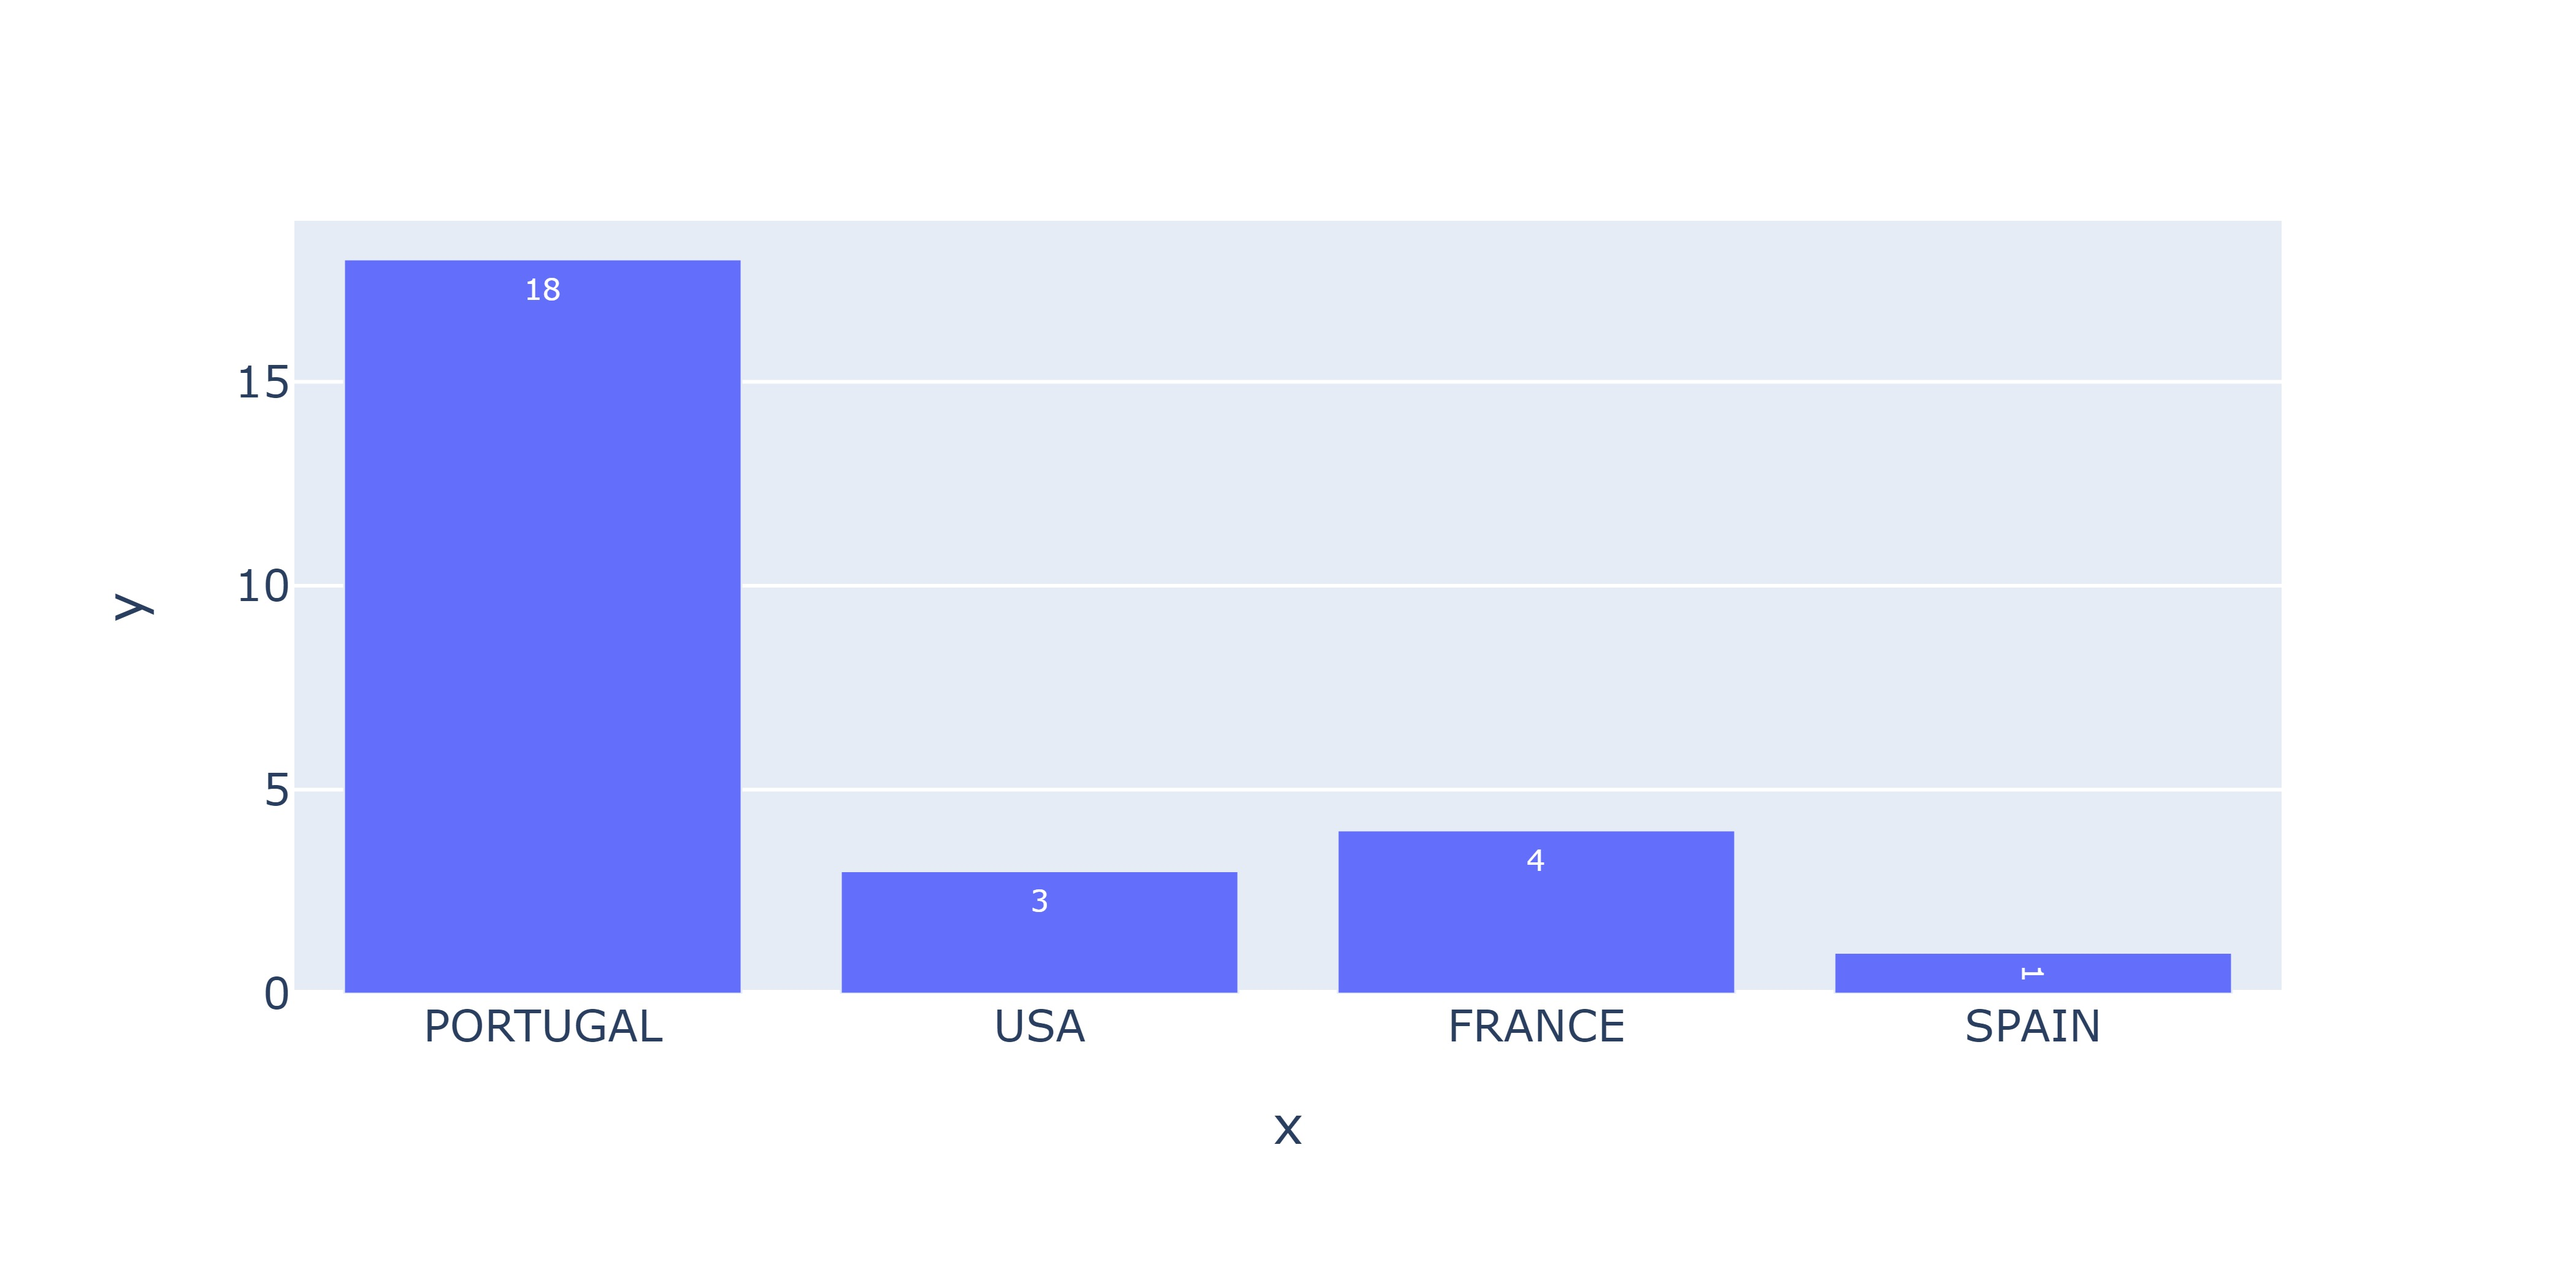
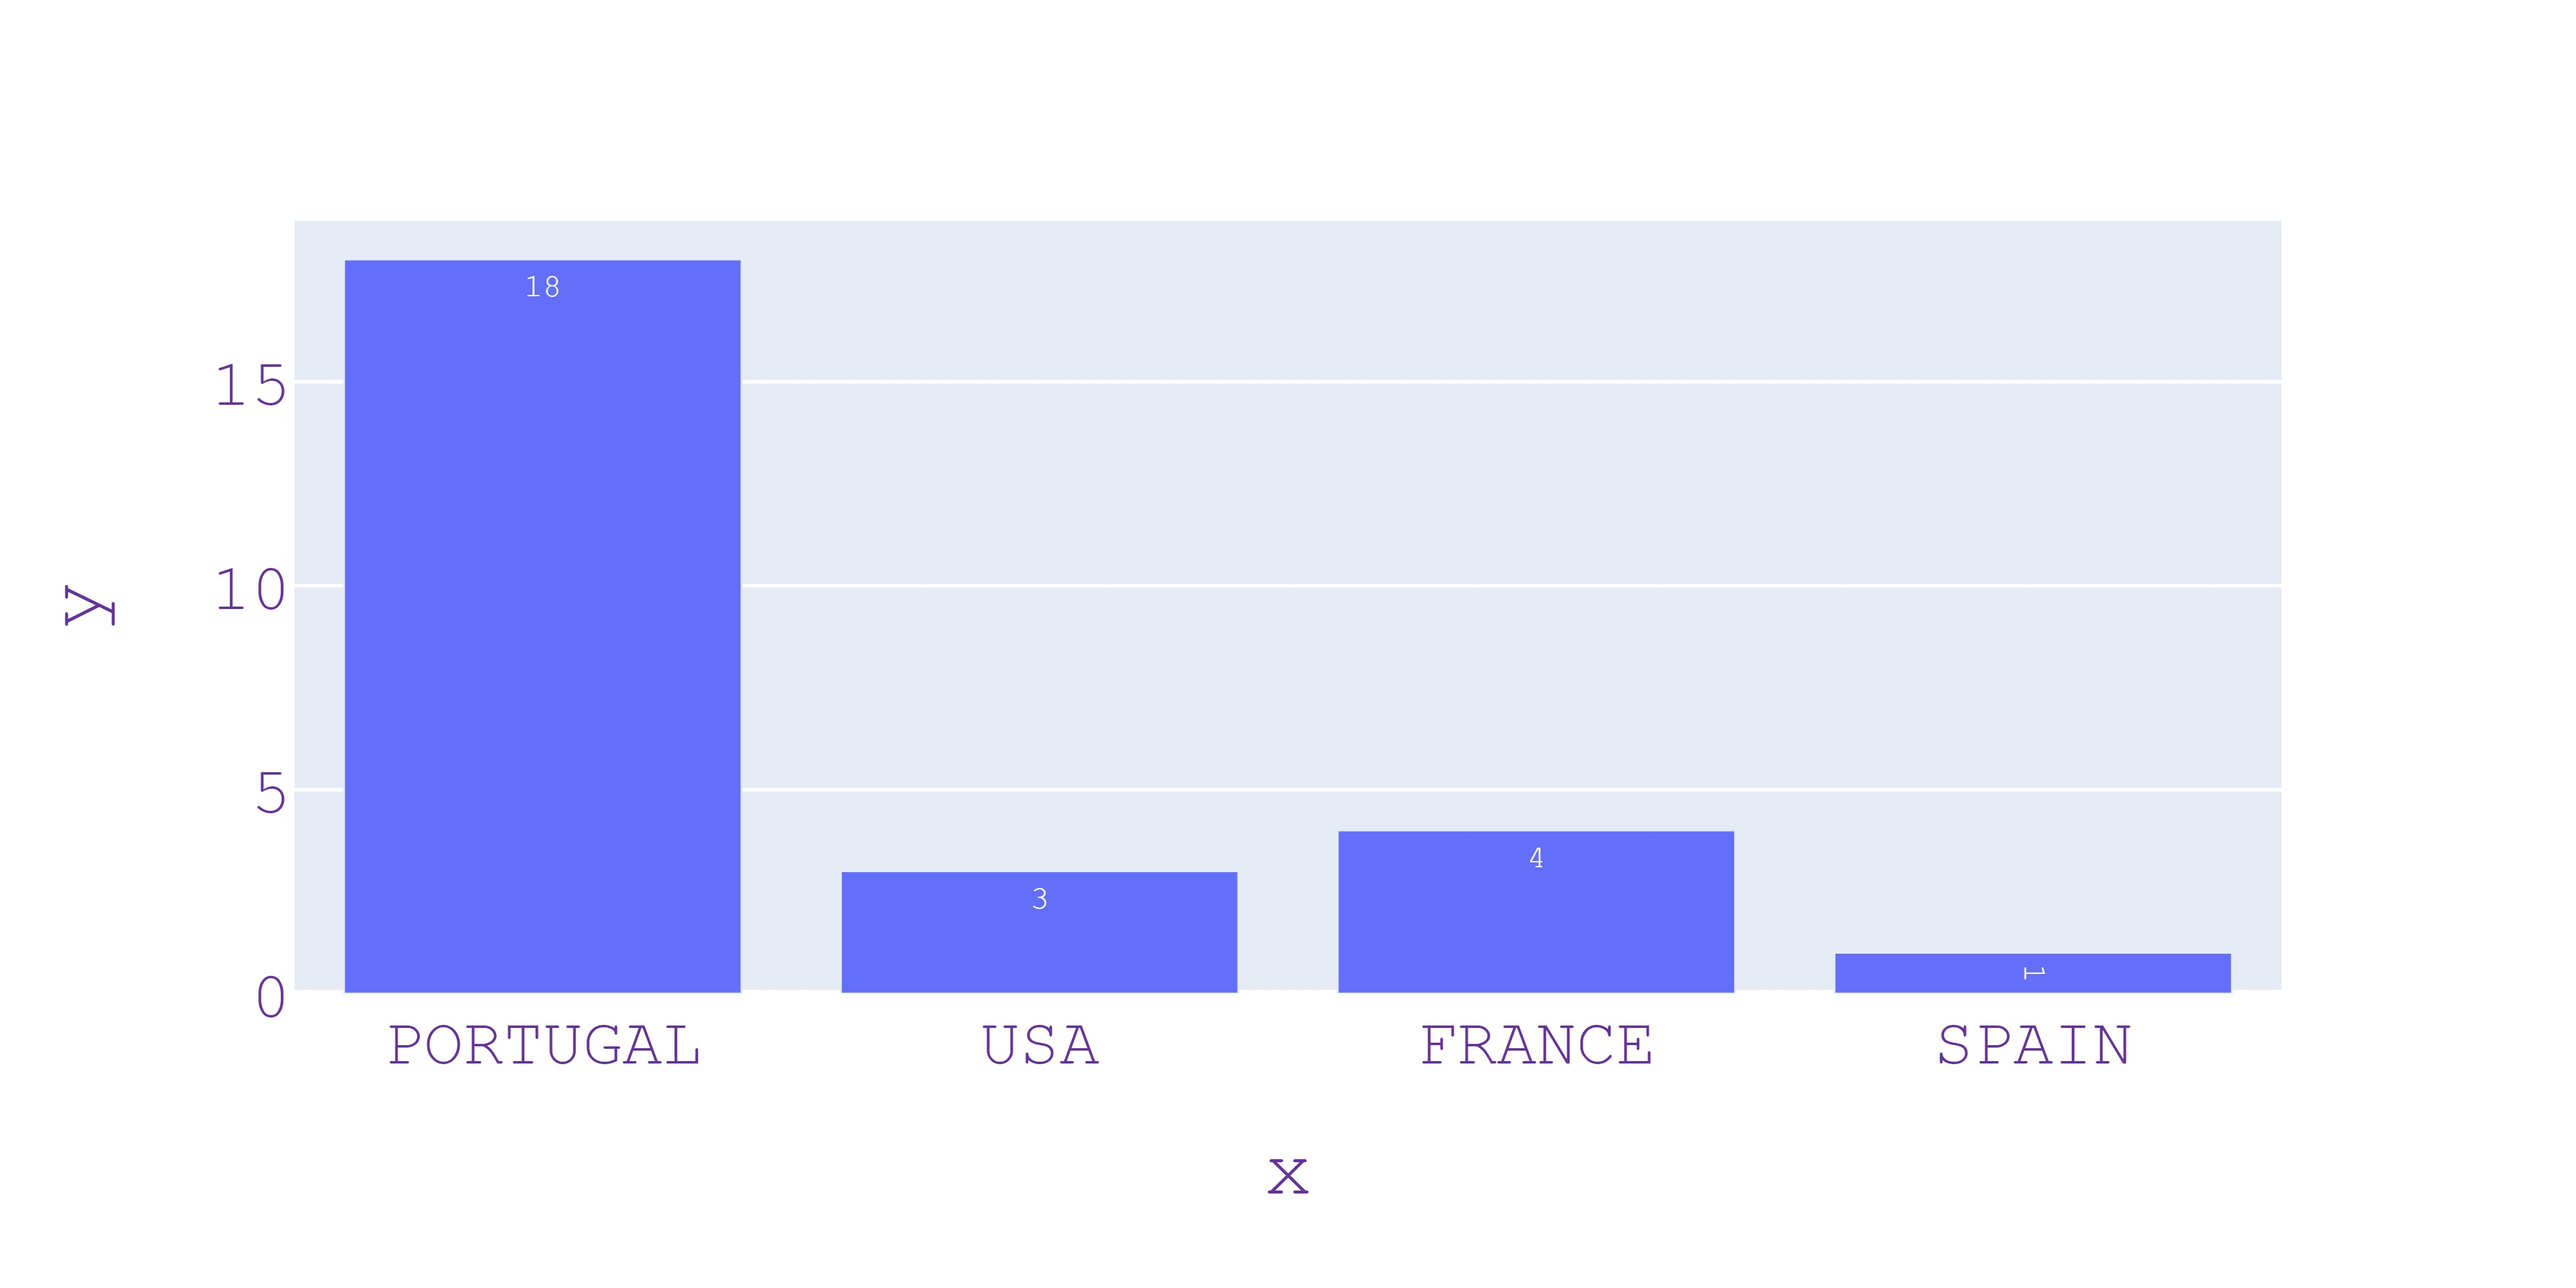
up readme - text size ploting

diff --git a/src/PLOTS/plots.py b/src/PLOTS/plots.py
@@ -8,20 +8,23 @@ data = DataCollector()
 def markets(data):
 
     data_markets = data.getMarkets()
-    print(data_markets)
     x = []
     y = []
     for keys in data_markets.keys():
         x.append(keys)
     for values in data_markets.values():
-        print(values)
         y.append(values)
     fig = px.bar(x=x, y=y)
 
   
 
     fig.update_traces(texttemplate=y, textposition='inside')
-    fig.update_layout(uniformtext_minsize=2, uniformtext_mode='hide')
+    fig.update_layout(uniformtext_minsize=2, uniformtext_mode='hide', font=dict(
+        family="Courier New, monospace",
+        size=18,
+        color="RebeccaPurple"
+    ))
+
     #ploting and save images
     
     fig.write_image('./PLOTS/img/markets.jpg', width=700, height=350, scale=6)
@@ -30,13 +33,33 @@ def markets(data):
 def categories(data):
 
     data_markets = data.getCategory()
-    print(data_markets)
     x = []
     y = []
     for keys in data_markets.keys():
         x.append(keys)
     for values in data_markets.values():
-        print(values)
+        y.append(values)
+    fig = px.bar(x=x, y=y)
+
+    fig.update_traces(texttemplate=y, textposition='inside')
+    fig.update_layout(uniformtext_minsize=2, uniformtext_mode='hide', font=dict(
+        family="Courier New, monospace",
+        size=6,
+        color="Black"
+    ))
+    #ploting and save images
+
+    fig.write_image('./PLOTS/img/categories.jpg', width=700, height=350, scale=6)
+
+
+def requesttype(data):
+
+    data_markets = data.getRequestTypes()
+    x = []
+    y = []
+    for keys in data_markets.keys():
+        x.append(keys)
+    for values in data_markets.values():
         y.append(values)
     fig = px.bar(x=x, y=y)
 
@@ -44,7 +67,7 @@ def categories(data):
     fig.update_layout(uniformtext_minsize=2, uniformtext_mode='hide')
     #ploting and save images
 
-    fig.write_image('./PLOTS/img/categories.jpg', width=900, height=650, scale=6)
+    fig.write_image('./PLOTS/img/request_type.jpg', width=700, height=350, scale=6)
 
 
 
@@ -53,4 +76,5 @@ def main(isglobal:bool = False):
     data = DataCollector(isglobal)
     markets(data)
     categories(data)
+    requesttype(data)
     

diff --git a/readme.md b/readme.md
@@ -1,3 +1,16 @@
-<h1>DRS Reports program</h1>
+# Drs reports
+
+
+## To do's:
+- Get the name of fabrics (excel file)
+- Generate all ploting
+- Upload ploted images to cloud service
+- Complete design of html email in  Stripo
+- Generate HTML email
+- Create main program:
+    - Run program every mounth;
+    - ...
+
+
 
 
